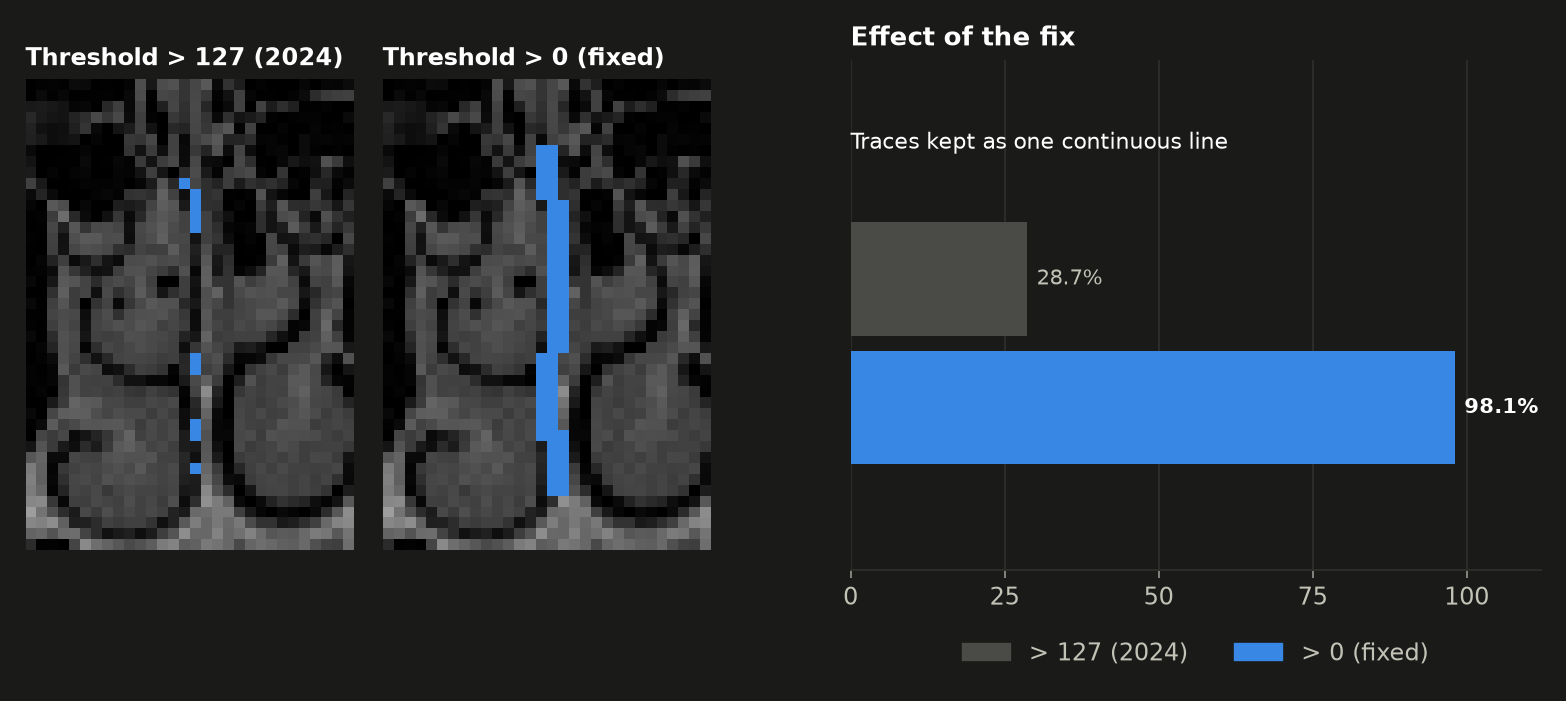
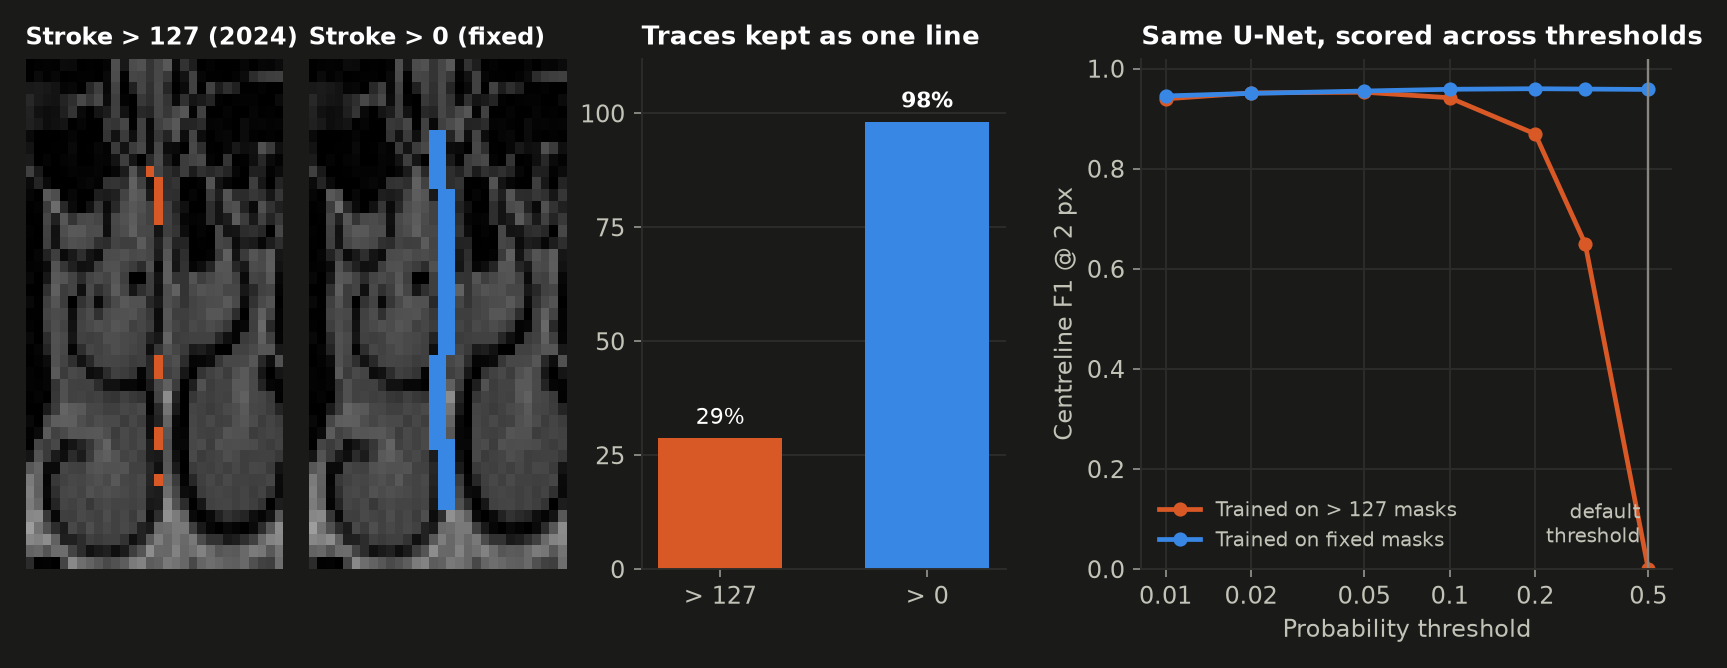
Report legacy-mask baseline and calibration finding

diff --git a/readme_figures.py b/readme_figures.py
@@ -165,56 +165,61 @@ def fig_label_fix(t, mode, ctx):
     img = np.array(Image.open(img_path).convert("L"))
     by, bx = crop_box(raw > 0, 6, 14, img.shape)
 
-    fig = plt.figure(figsize=(11.5, 3.9))
-    gs = fig.add_gridspec(1, 4, width_ratios=[1, 1, 0.25, 2.1], wspace=0.08)
-    for i, (thr, title) in enumerate([(127, "Threshold > 127 (2024)"), (0, "Threshold > 0 (fixed)")]):
+    fig = plt.figure(figsize=(12.5, 3.9))
+    gs = fig.add_gridspec(1, 6, width_ratios=[0.85, 0.85, 0.08, 1.2, 0.28, 1.75], wspace=0.1)
+    for i, (thr, title) in enumerate([(127, "Stroke > 127 (2024)"), (0, "Stroke > 0 (fixed)")]):
         ax = fig.add_subplot(gs[0, i])
-        ax.imshow(paint(rgb(img), raw > thr, t["s1"], 1.0)[by, bx], interpolation="nearest")
+        ax.imshow(paint(rgb(img), raw > thr, t["s1"] if thr == 0 else t["s2"], 1.0)[by, bx],
+                  interpolation="nearest", aspect="auto")
         ax.set_title(title, fontsize=10)
         ax.set_xticks([]), ax.set_yticks([])
         ax.grid(False)
-        for s in ax.spines.values():
-            s.set_visible(False)
+        for sp in ax.spines.values():
+            sp.set_visible(False)
 
     ax = fig.add_subplot(gs[0, 3])
-    rows = [("Traces kept as one\ncontinuous line", share[127], share[0], "%", 100)]
-    s = ctx["summary"].set_index("config")
-    if {"a0_unet_scratch_bce_legacy_masks", "a_unet_scratch_bce"} <= set(s.index):
-        rows.append(("U-Net centreline F1\nwithin 2 px",
-                     100 * s.loc["a0_unet_scratch_bce_legacy_masks", "f1_tol"],
-                     100 * s.loc["a_unet_scratch_bce", "f1_tol"], "%", 100))
-    y = np.arange(len(rows))[::-1] * 1.25
-    h = 0.3
-    for yi, (lab, before, after, unit, _) in zip(y, rows):
-        ax.text(0, yi + h + 0.2, lab.replace("\n", " "), va="bottom", color=t["ink"], fontsize=9.5)
-        ax.barh(yi + h / 2 + 0.02, before, height=h, color=t["fold"])
-        ax.barh(yi - h / 2 - 0.02, after, height=h, color=t["s1"])
-        ax.text(before + 1.5, yi + h / 2 + 0.02, f"{before:.1f}{unit}", va="center", color=t["ink2"], fontsize=9)
-        ax.text(after + 1.5, yi - h / 2 - 0.02, f"{after:.1f}{unit}", va="center", color=t["ink"],
-                fontsize=9, fontweight="bold")
-    ax.set_yticks([])
-    ax.set_ylim(y.min() - 0.6, y.max() + 0.75)
-    ax.spines["left"].set_visible(False)
-    ax.set_xlim(0, 112)
-    ax.set_xticks([0, 25, 50, 75, 100])
-    ax.grid(axis="y", visible=False)
-    ax.tick_params(axis="y", length=0)
-    ax.legend(handles=[Patch(color=t["fold"], label="> 127 (2024)"), Patch(color=t["s1"], label="> 0 (fixed)")],
-              loc="upper center", bbox_to_anchor=(0.5, -0.1), ncol=2)
-    ax.set_title("Effect of the fix")
+    vals = [(share[127], t["s2"], "> 127"), (share[0], t["s1"], "> 0")]
+    ax.bar([0, 1], [v for v, _, _ in vals], width=0.6, color=[c for _, c, _ in vals])
+    for xi, (v, _, _) in enumerate(vals):
+        ax.text(xi, v + 2, f"{v:.0f}%", ha="center", va="bottom", fontsize=9.5, color=t["ink"],
+                fontweight="bold" if xi else "normal")
+    ax.set_xticks([0, 1], [lab for _, _, lab in vals])
+    ax.set_ylim(0, 112)
+    ax.set_yticks([0, 25, 50, 75, 100])
+    ax.grid(axis="x", visible=False)
+    ax.set_title("Traces kept as one line")
+
+    sweep_path = os.path.join(ctx["results"], "threshold_sweep.csv")
+    ax = fig.add_subplot(gs[0, 5])
+    if os.path.exists(sweep_path):
+        sw = pd.read_csv(sweep_path)
+        for cfg, color, lab in (("a0_unet_scratch_bce_legacy_masks", t["s2"], "Trained on > 127 masks"),
+                                ("a_unet_scratch_bce", t["s1"], "Trained on fixed masks")):
+            d = sw[sw.config == cfg].sort_values("threshold")
+            ax.plot(d.threshold, d.f1_tol, color=color, lw=2, marker="o", ms=5, label=lab)
+        ax.axvline(0.5, color=t["muted"], lw=1)
+        ax.text(0.47, 0.04, "default\nthreshold", ha="right", va="bottom", fontsize=8.5, color=t["ink2"])
+        ax.set_xscale("log")
+        ax.set_xticks([0.01, 0.02, 0.05, 0.1, 0.2, 0.5], ["0.01", "0.02", "0.05", "0.1", "0.2", "0.5"])
+        ax.minorticks_off()
+        ax.set_ylim(0, 1.02)
+        ax.set(xlabel="Probability threshold", ylabel="Centreline F1 @ 2 px")
+        ax.legend(loc="lower left", fontsize=8.5)
+        ax.set_title("Same U-Net, scored across thresholds")
     save(fig, ctx["out"], "label_fix", mode)
 
 
 def fig_ablation(t, mode, ctx):
     """Per-fold scores for every setting, folds joined to show they are paired."""
     df, s = ctx["df"], ctx["summary"]
-    order = [c for c in SHORT if c in set(df.config)]
+    # A0 (legacy masks) predicts nothing at 0.5 and is shown in the label-fix figure instead
+    order = [c for c in SHORT if c in set(df.config) and c != "a0_unet_scratch_bce_legacy_masks"]
     x = np.arange(len(order))
     fig, axes = plt.subplots(1, 2, figsize=(11.5, 4.1), gridspec_kw=dict(wspace=0.28))
     for ax, (k, title, fmt) in zip(axes, [("f1_tol", "Centreline F1 within 2 px (higher is better)", "{:.3f}"),
                                           ("cl_mean_dist", "Mean centreline distance, px (lower is better)",
                                            "{:.2f}")]):
-        fm = df.groupby(["config", "fold"])[k].mean().unstack()
+        fm = df[df.config.isin(order)].groupby(["config", "fold"])[k].mean().unstack()
         for fold in fm.columns:
             vals = [fm.loc[c, fold] if c in fm.index else np.nan for c in order]
             ax.plot(x, vals, color=t["fold"], lw=1, marker="o", ms=3.5, zorder=2)
@@ -321,7 +326,7 @@ def main():
     summary = pd.read_csv(os.path.join(args.results, "summary.csv"))
     best = args.best or summary[summary.config != "a0_unet_scratch_bce_legacy_masks"].sort_values(
         "f1_tol").iloc[-1].config
-    ctx = dict(df=df, summary=summary, data=args.data, src=args.src, out=args.out,
+    ctx = dict(df=df, summary=summary, data=args.data, src=args.src, out=args.out, results=args.results,
                best_df=df[df.config == best], best_preds=load_preds(args.results, best))
     print("best config:", best, LABELS[best])
     for mode, t in THEMES.items():

diff --git a/README.md b/README.md
@@ -19,6 +19,8 @@ IIT(ISM) Dhanbad).
   per-slice mean absolute error **0.72 px**.
 - **Found and fixed a label-processing bug** in the 2024 pipeline: thresholding the
   anti-aliased Label Studio strokes at >127 broke 71% of traces into dashes and emptied 80 masks.
+  A U-Net trained on those masks never outputs a probability above 0.5 and finds the septum on
+  0.6% of slices at the default threshold; trained on the fixed masks it finds it on all of them.
 - **~2 ms per slice** inference; about 10 min to train one fold on an RTX A4000.
 
 ## Data
@@ -35,8 +37,23 @@ IIT(ISM) Dhanbad).
 
 <picture>
   <source media="(prefers-color-scheme: dark)" srcset="docs/figures/label_fix-dark.png">
-  <img alt="The same trace thresholded at >127 (dashed) and >0 (continuous), and the share of traces kept as one line" src="docs/figures/label_fix-light.png">
+  <img alt="The same trace thresholded at >127 (dashed) and >0 (continuous), the share of traces kept as one line, and centreline F1 across probability thresholds for U-Nets trained on each" src="docs/figures/label_fix-light.png">
 </picture>
+
+**What the fix changes.** The same U-Net (setting A) was trained on both versions of the
+masks, with the same folds, and scored against the corrected centrelines:
+
+| Trained on | Median max probability | Slices detected at 0.5 | F1@2px at 0.5 | Best threshold* | F1@2px there | clDice there |
+|---|---|---|---|---|---|---|
+| > 127 masks (2024) | 0.44 | 0.6% | 0.001 | 0.05 | 0.953 | 0.842 |
+| > 0 masks (fixed) | 0.99 | 100% | **0.958** | 0.2 | **0.960** | **0.925** |
+
+\*Chosen on the test predictions, so optimistic for both.
+
+The broken masks do not stop the network learning where the septum is: its probabilities still
+peak along it. They leave it badly calibrated, so it predicts nothing at the default
+threshold, which the 2024 pixel-accuracy metric (99%, mostly background) did not reveal. Even at
+its most favourable threshold its centrelines are less continuous (clDice 0.84 vs 0.93).
 
 ### Data availability
 
@@ -54,6 +71,7 @@ research use on request; please open an issue or contact the author.
 
 | | Model | Loss | Input |
 |---|---|---|---|
+| A0 | U-Net from scratch, trained on the 2024 > 127 masks | BCE | slice |
 | A | U-Net from scratch (the 2024 architecture) | BCE | slice |
 | B | U-Net from scratch | BCE + Dice | slice |
 | C | U-Net, ImageNet ResNet34 encoder | BCE + Dice | slice |
@@ -77,13 +95,15 @@ A 1-px shift halves the overlap of a thin structure, so overlap alone misleads.
 
 | | F1@2px | clDice | Dice (band) | Centreline dist (px) | HD95 (px) | Deviation MAE (px) | Scan deviation r | Fragmented | Train / fold | Inference |
 |---|---|---|---|---|---|---|---|---|---|---|
+| A0 (A on > 127 masks) | 0.001 | 0.000 | 0.000 | - | - | - | - | - | 16 min | 3.5 ms |
 | A | **0.958** ± 0.009 | 0.880 ± 0.038 | 0.728 | **0.89** ± 0.13 | 2.79 | 0.71 | 0.82 | 3.3% | 26 min | 5.2 ms |
 | B | 0.956 ± 0.007 | **0.887** ± 0.023 | **0.732** | 0.91 ± 0.11 | 2.82 | **0.69** | 0.88 | 4.6% | 26 min | 6.9 ms |
 | C | 0.953 ± 0.021 | 0.871 ± 0.051 | 0.719 | 0.93 ± 0.23 | 2.71 | **0.69** | 0.87 | 2.6% | **8 min** | 2.1 ms |
 | D | 0.956 ± 0.013 | 0.881 ± 0.041 | 0.726 | 0.91 ± 0.20 | **2.65** | 0.72 | **0.92** | **1.4%** | 10 min | 2.0 ms |
 | E | 0.954 ± 0.018 | 0.883 ± 0.031 | 0.728 | 0.91 ± 0.20 | 2.78 | 0.71 | 0.86 | 2.3% | **8 min** | **1.6 ms** |
 
-Mean over all 899 out-of-fold slices ± standard deviation of the 5 fold means. "Fragmented" is
+Mean over all 899 out-of-fold slices ± standard deviation of the 5 fold means, at threshold 0.5.
+A0 detects the septum on 0.6% of slices, so distance and deviation scores are undefined. "Fragmented" is
 the share of slices whose raw prediction splits into more than one piece. Training times are
 per fold on an RTX A4000 (A, B) and a mix of A4000 / A5000 (C-E), so they are indicative.
 
@@ -136,6 +156,7 @@ python prepare_data.py                                  # data/final-v4 -> data/
 python train.py --config configs/d_resnet34_cldice.yaml --fold 0
 scripts/run_queue.sh <gpu> scripts/jobs_s0a.txt         # a resumable queue of (config, fold) jobs
 python aggregate.py                                     # results/summary.md
+python threshold_sweep.py                               # results/threshold_sweep.csv
 python readme_figures.py --best d_resnet34_cldice       # docs/figures/*
 ```
 
